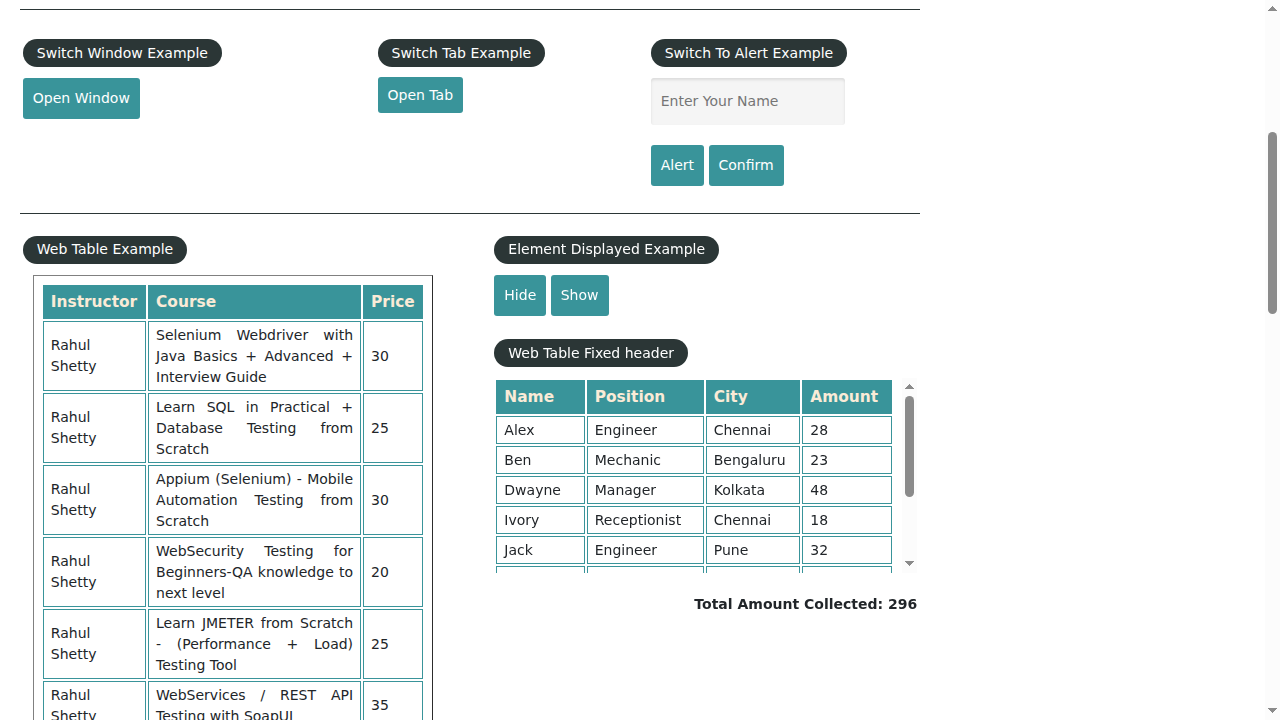
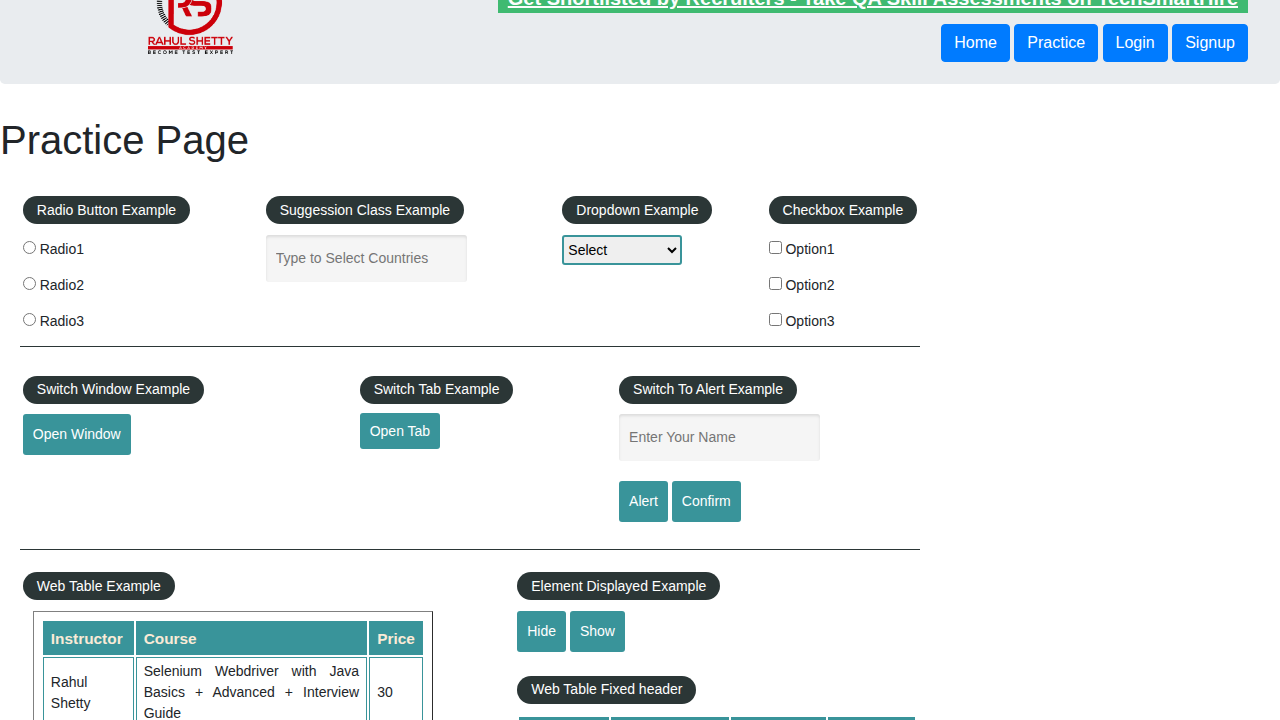
module 15-adding some configuration options and labels to test

diff --git a/tests/11-visual_testing/MoreValidations.spec.js b/tests/11-visual_testing/MoreValidations.spec.js
@@ -1,52 +1,50 @@
-const {test,expect} = require("@playwright/test");
+const { test, expect } = require("@playwright/test");
 
-test.use({storageState:"state.with-google.json"})
+test.use({ storageState: "state.with-google.json" })
 
-test("Popup validations",async({page}) =>
-{
-    await page.goto('https://rahulshettyacademy.com/AutomationPractice/');
-    // await page.goto('http://google.com');
-    // await page.goBack();
-    // await page.goForward();
-    await expect(page.locator("#displayed-text")).toBeVisible();
-    await page.locator("#hide-textbox").click();
-    await expect(page.locator("#displayed-text")).toBeHidden();
-    // await page.pause();
-    page.on('dialog',dialog => dialog.accept());
-    await page.locator("#confirmbtn").click();
-    await page.locator("#mousehover").hover();
-    const coursesFrame = page.frameLocator('#courses-iframe');
+test("Popup validations", async ({ page }) => {
+  await page.goto('https://rahulshettyacademy.com/AutomationPractice/');
+  // await page.goto('http://google.com');
+  // await page.goBack();
+  // await page.goForward();
+  await expect(page.locator("#displayed-text")).toBeVisible();
+  await page.locator("#hide-textbox").click();
+  await expect(page.locator("#displayed-text")).toBeHidden();
+  // await page.pause();
+  page.on('dialog', dialog => dialog.accept());
+  await page.locator("#confirmbtn").click();
+  await page.locator("#mousehover").hover();
+  const coursesFrame = page.frameLocator('#courses-iframe');
 
-    const lifetimeAccessLink = coursesFrame.locator(
-    "a[href*='lifetime-access']:visible"
-    );
+  const lifetimeAccessLink = coursesFrame.getByRole('link', {
+    name: /All Access plan/i
+  });
 
-    await expect(lifetimeAccessLink).toBeVisible();
-    await lifetimeAccessLink.click();
+  await expect(lifetimeAccessLink).toBeVisible();
+  await lifetimeAccessLink.click();
 
-    const heading = coursesFrame.locator('.text h2');
+  const heading = coursesFrame.locator('.text h2');
 
-    await expect(heading).toBeVisible();
+  await expect(heading).toBeVisible();
 
-    const headingText = await heading.textContent();
+  const headingText = await heading.textContent();
 
-    console.log(headingText.split(' ')[1]);
+  console.log(headingText.split(' ')[1]);
 
 });
 
-test("Screenshoot & Visual comparison", async({page}) =>
-{
-    await page.goto('https://rahulshettyacademy.com/AutomationPractice/');
-    await expect(page.locator("#displayed-text")).toBeVisible();
-    await page.locator("#displayed-text").screenshot({path: 'partialScreenshoot.png'});
-    await page.locator("#hide-textbox").click();
-    await page.screenshot({path: 'screenshoot.png'});
-    await expect(page.locator("#displayed-text")).toBeHidden();
+test("Screenshoot & Visual comparison", async ({ page }) => {
+  await page.goto('https://rahulshettyacademy.com/AutomationPractice/');
+  await expect(page.locator("#displayed-text")).toBeVisible();
+  await page.locator("#displayed-text").screenshot({ path: 'partialScreenshoot.png' });
+  await page.locator("#hide-textbox").click();
+  await page.screenshot({ path: 'screenshoot.png' });
+  await expect(page.locator("#displayed-text")).toBeHidden();
 
 });
 // Screenshoot --> store --> Screenshoot
 test("Visual", async ({ page }) => {
-  test.skip(process.env.CI,"Google Visual testing is flaky in CI")
+  test.skip(process.env.CI, "Google Visual testing is flaky in CI")
   await page.goto("https://www.google.com/");
 
   await expect(
@@ -54,6 +52,10 @@ test("Visual", async ({ page }) => {
   ).toBeHidden();
 
   await expect(page).toHaveScreenshot("landing.png", {
-    maxDiffPixels: 200,
+    maxDiffPixels: 3000,
+    mask: [
+      page.locator('.dynamic-section'),
+      page.locator('.banner'),
+    ],
   });
 });

diff --git a/tests/03-handling_ui_components/UIBasicstest.spec.js b/tests/03-handling_ui_components/UIBasicstest.spec.js
@@ -1,7 +1,6 @@
-const {test,expect} = require('@playwright/test');
+const { test, expect } = require('@playwright/test');
 
-test('Browser Context Playwright test', async ({browser})=> 
-{
+test('@Web Browser Context Playwright test', async ({ browser }) => {
     //chrome - plugins/ cookies
     const context = await browser.newContext();
     const page = await context.newPage();
@@ -30,35 +29,35 @@ test('Browser Context Playwright test', async ({browser})=>
     console.log(allTitles);
 });
 
-test('UI Controls', async ({page})=> 
-{
+test('@Web UI Controls', async ({ page }) => {
     await page.goto("https://rahulshettyacademy.com/loginpagePractise/")
     const userName = page.locator('#username');
     const signIn = page.locator("#signInBtn");
     const documentLink = page.locator("[href*='documents-request']")
-    const dropdown = page.locator("select.form-control"); 
+    const dropdown = page.locator("select.form-control");
     await dropdown.selectOption("consult");
     await page.locator(".radiotextsty").last().click();
     await page.locator("#okayBtn").click();
     console.log(await page.locator(".radiotextsty").last().isChecked());
-    await expect(page.locator(".radiotextsty").last()).toBeChecked();
-    await page.locator("#terms").click();
-    await expect(page.locator("#terms")).toBeChecked();
-    await page.locator("#terms").uncheck();
-    expect(await page.locator("#terms").isChecked()).toBeFalsy();
-    await expect(documentLink).toHaveAttribute("class","blinkingText");
+    await page.locator(".radiotextsty").last().click();
+
+    await page.locator('#terms').check();
+    await expect(page.locator('#terms')).toBeChecked();
+
+    await page.locator('#terms').uncheck();
+    await expect(page.locator('#terms')).not.toBeChecked();
+    await expect(documentLink).toHaveAttribute("class", "blinkingText");
     //assertion
 
 });
 
-test('Child windows handling', async ({browser})=> 
-{
+test('@Web Child windows handling', async ({ browser }) => {
     const context = await browser.newContext();
     const page = await context.newPage();
     await page.goto("https://rahulshettyacademy.com/loginpagePractise/");
     const userName = page.locator('#username');
     const documentLink = page.locator("[href*='documents-request']");
-    
+
     const [newPage] = await Promise.all([
         context.waitForEvent('page'),
         documentLink.click(),

diff --git a/tests/05-special_locators/ClientApp.spec.js b/tests/05-special_locators/ClientApp.spec.js
@@ -1,6 +1,6 @@
 const { test, expect } = require('@playwright/test');
 
-test('@Gen Client App login', async ({ page }) => {
+test('@Web Client App login', async ({ page }) => {
     const email = "test_practise@gmail.com";
     const productName = "ZARA COAT 3";
 
@@ -12,16 +12,36 @@ test('@Gen Client App login', async ({ page }) => {
 
     await expect(page.getByText(productName).first()).toBeVisible();
 
-    await page
-        .getByText(productName)
-        .locator("xpath=ancestor::*[contains(@class,'card-body')]")
-        .getByRole("button", { name: "Add to Cart" })
-        .click();
+    const productCard = page.locator('.card-body').filter({ hasText: productName });
 
-    await expect(page.getByText("Product Added To Cart")).toBeVisible();
-    await page.getByRole("listitem").getByRole("button", { name: "Cart" }).click();
+    const addToCartResponsePromise = page.waitForResponse(response =>
+        response.url().includes('/api/ecom/user/add-to-cart') &&
+        response.request().method() === 'POST'
+    );
 
-    await expect(page.locator("h3", { hasText: productName })).toBeVisible();
+    await productCard.getByRole('button', { name: /Add To Cart/i }).click();
+
+    const addToCartResponse = await addToCartResponsePromise;
+    expect(addToCartResponse.ok()).toBeTruthy();
+
+    const addToCartBody = await addToCartResponse.json();
+    expect(JSON.stringify(addToCartBody)).toContain("Product Added To Cart");
+
+    await expect(page.locator("[routerLink*='cart']")).toContainText("1");
+
+    const cartResponsePromise = page.waitForResponse(response =>
+        response.url().includes('/api/ecom/user/get-cart-products') &&
+        response.ok()
+    );
+
+    await page.locator("[routerLink*='cart']").click();
+
+    const cartResponse = await cartResponsePromise;
+    const cartBody = await cartResponse.json();
+
+    expect(JSON.stringify(cartBody)).toContain(productName);
+
+    await expect(page.getByText(productName)).toBeVisible();
 
     await page.getByRole("button", { name: "Checkout" }).click();
 
@@ -64,7 +84,7 @@ test('@Gen Client App login', async ({ page }) => {
     await expect(page.locator(".col-text")).toHaveText(orderId);
 });
 
-test('@Web Client App login', async ({ page }) => {
+test('@Web Client App login 2', async ({ page }) => {
     const email = "anshika@gmail.com";
     const productName = "ZARA COAT 3";
 

diff --git a/tests/07-handling_web_dialogs_frames_event_listeners/MoreValidations.spec.js b/tests/07-handling_web_dialogs_frames_event_listeners/MoreValidations.spec.js
@@ -1,8 +1,7 @@
-const {test,expect} = require("@playwright/test");
+const { test, expect } = require("@playwright/test");
 
 
-test("Popup validations",async({page}) =>
-{
+test("@Web Popup validations", async ({ page }) => {
     await page.goto('https://rahulshettyacademy.com/AutomationPractice/');
     // await page.goto('http://google.com');
     // await page.goBack();
@@ -11,14 +10,14 @@ test("Popup validations",async({page}) =>
     await page.locator("#hide-textbox").click();
     await expect(page.locator("#displayed-text")).toBeHidden();
     // await page.pause();
-    page.on('dialog',dialog => dialog.accept());
+    page.on('dialog', dialog => dialog.accept());
     await page.locator("#confirmbtn").click();
     await page.locator("#mousehover").hover();
     const coursesFrame = page.frameLocator('#courses-iframe');
 
-    const lifetimeAccessLink = coursesFrame.locator(
-    "a[href*='lifetime-access']:visible"
-    );
+    const lifetimeAccessLink = coursesFrame.getByRole('link', {
+        name: /All Access plan/i
+    });
 
     await expect(lifetimeAccessLink).toBeVisible();
     await lifetimeAccessLink.click();

diff --git a/playwright.config1.js b/playwright.config1.js
@@ -9,14 +9,13 @@ const isCI = !!process.env.CI;
 module.exports = defineConfig({
   testDir: './tests',
   timeout: 30 * 1000,
-
   expect: {
     timeout: 5000
   },
 
   forbidOnly: isCI,
-  retries: isCI ? 2 : 0,
-  workers: isCI ? 1 : undefined,
+  retries: isCI ? 2 : 2,
+  workers: isCI ? 1 : 5,
 
   reporter: [
     ['list'],
@@ -38,14 +37,13 @@ module.exports = defineConfig({
       name: 'Chrome execution',
       use: {
         browserName: 'chromium',
-        headless: false,
+        headless: true,
         screenshot: 'on',
         video: 'retain-on-failure',
         ignoreHTTPSErrors: true,
         permissions:['geolocation'],
-        trace: 'on',
-        ...devices['Galaxy S24']
-      }
+        trace: 'on'
+        }
 
     }
 

diff --git a/tests/13-page_objects_pattern/ClientAppPO.spec.js b/tests/13-page_objects_pattern/ClientAppPO.spec.js
@@ -3,6 +3,8 @@ const {POManager} = require('../../pageobjects/POManager');
 const { orderTestData } = require('../../utils/placeorderTestData'); 
 const {customtest} = require('../../utils/test-base');
 
+test.describe.configure({mode:'serial'});
+
 for (const testData of orderTestData) {
 
 test(`@Gen Client App login for ${testData.productName}`, async ({ page }) => {  

diff --git a/tests/09-session_storage_intercept_network/WebAPIPart2.spec.js b/tests/09-session_storage_intercept_network/WebAPIPart2.spec.js
@@ -78,7 +78,7 @@ test('Place order injecting webContext', async () => {
     await expect(page.locator(".col-text")).toHaveText(orderId);
 });
 
-test('Test case 2', async() =>
+test('@API Test case 2', async() =>
 {
     const email = "";
     const productName = 'ZARA COAT 3';

diff --git a/tests/08-api_testing_with_web_tests/WebAPIPart1.spec.js b/tests/08-api_testing_with_web_tests/WebAPIPart1.spec.js
@@ -25,7 +25,7 @@ test.beforeAll(async () => {
   console.log(response);
 });
 
-test('Place the order', async ({ page }) => {
+test('@API Place the order', async ({ page }) => {
   const productName = 'ZARA COAT 3';
 
   await page.addInitScript((token) => {
